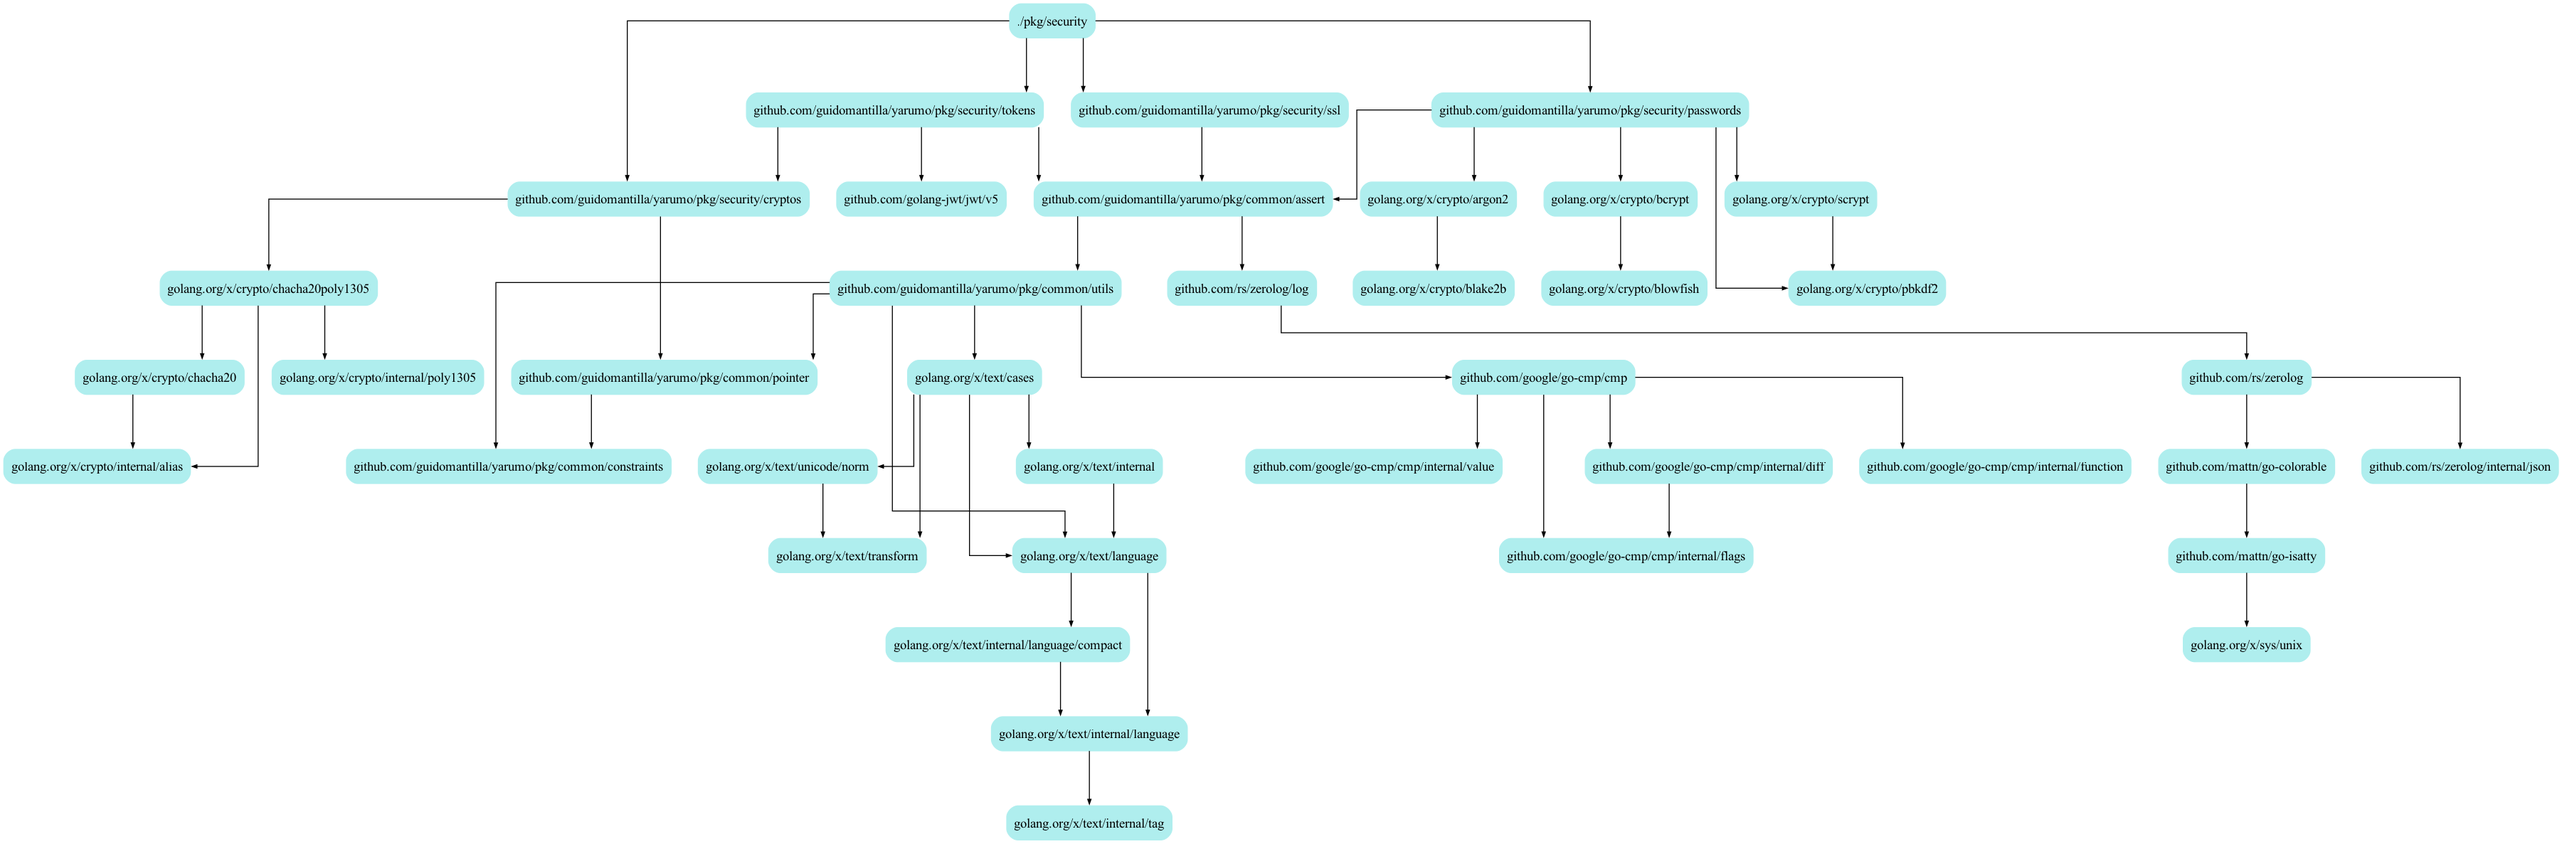
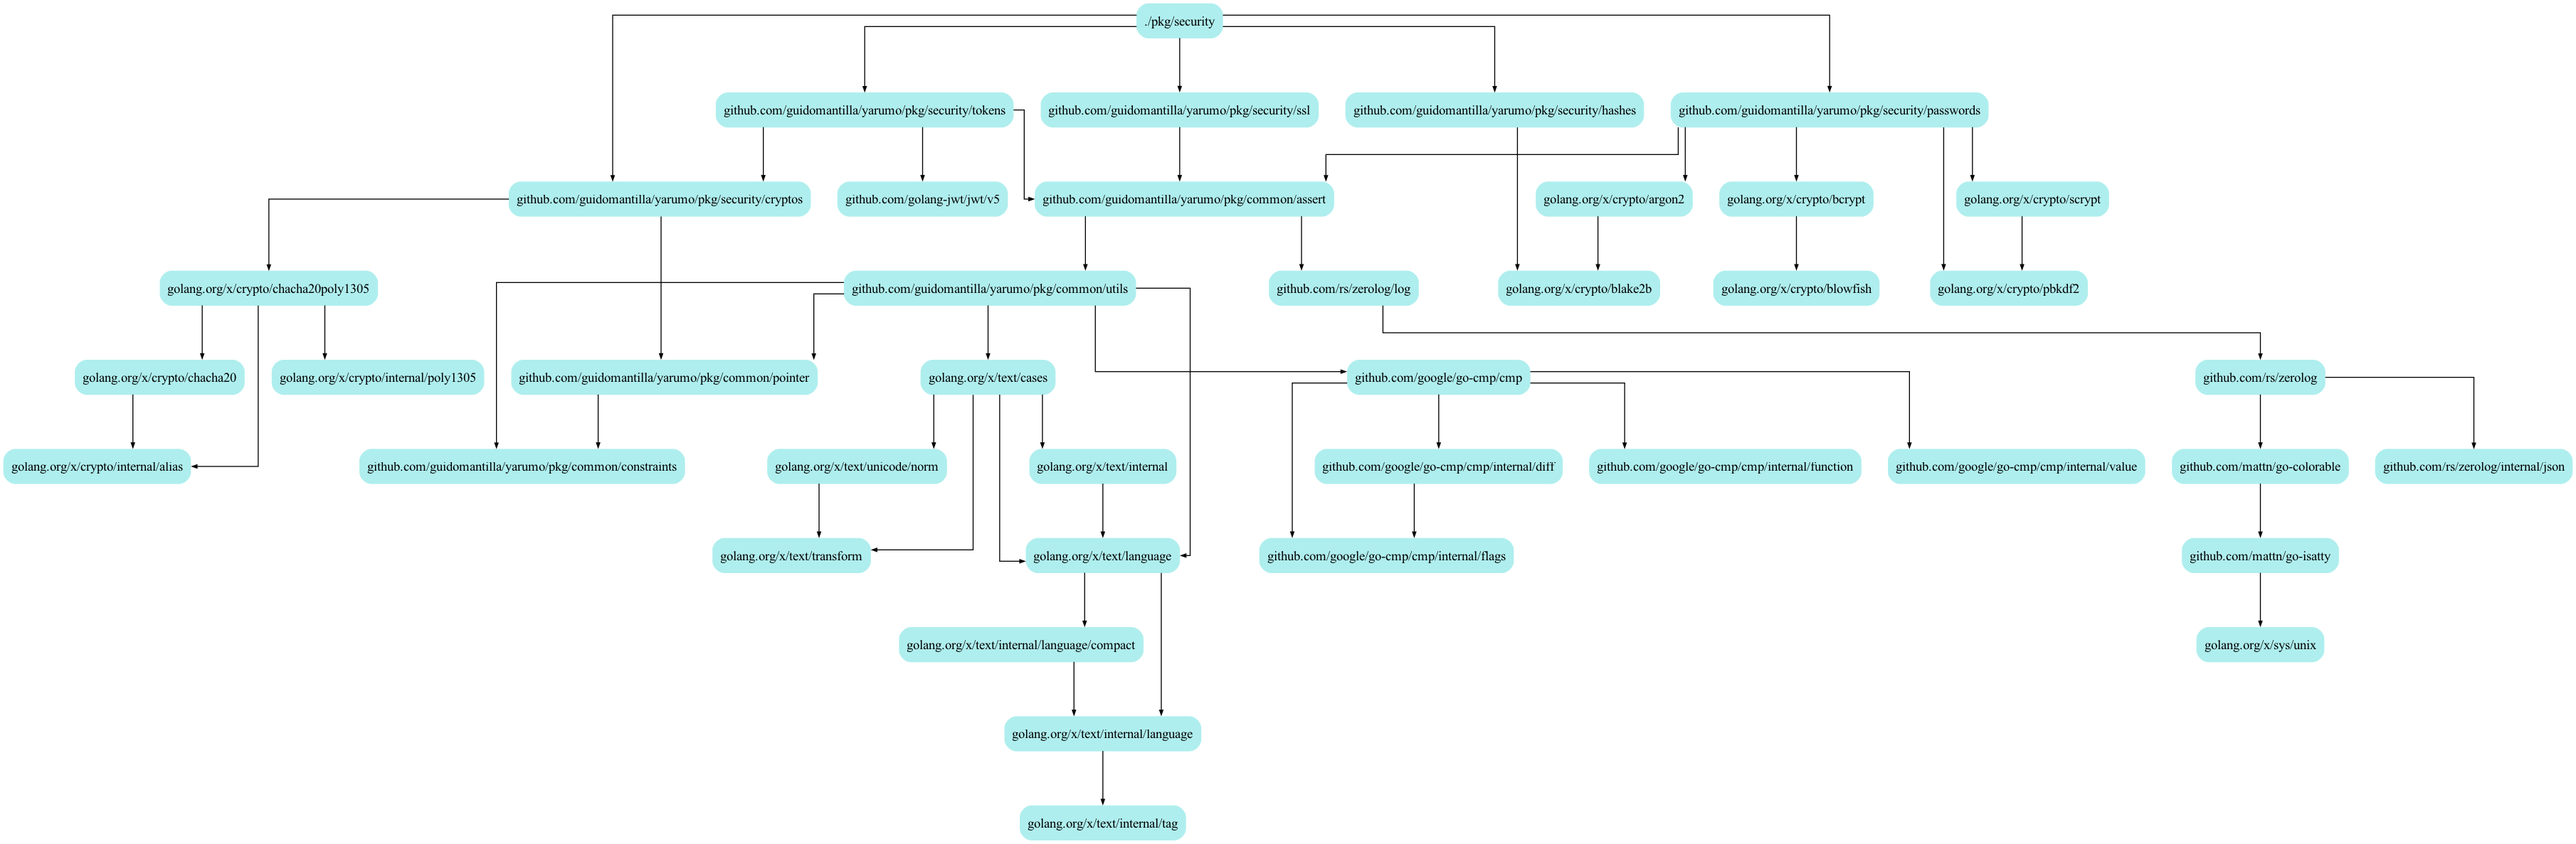
updates

diff --git a/pkg/boot/context.go b/pkg/boot/context.go
@@ -13,8 +13,10 @@ import (
 	"github.com/guidomantilla/yarumo/pkg/common/assert"
 	clog "github.com/guidomantilla/yarumo/pkg/common/log"
 	"github.com/guidomantilla/yarumo/pkg/common/pointer"
+	"github.com/guidomantilla/yarumo/pkg/common/uids"
 	"github.com/guidomantilla/yarumo/pkg/common/utils"
 	"github.com/guidomantilla/yarumo/pkg/security/cryptos"
+	"github.com/guidomantilla/yarumo/pkg/security/hashes"
 	"github.com/guidomantilla/yarumo/pkg/security/passwords"
 	"github.com/guidomantilla/yarumo/pkg/security/tokens"
 )
@@ -46,8 +48,10 @@ func NewWireContext[C any](name string, version string, opts ...Option) *WireCon
 	container := &Container{
 		AppName:           name,
 		AppVersion:        version,
-		Config:            pointer.Zero[C](),
+		Hasher:            hashes.BLAKE2b_512,
+		UIDGen:            uids.UUIDv7,
 		Logger:            clog.Configure(name, version),
+		Config:            pointer.Zero[C](),
 		Validator:         validator.New(),
 		PasswordEncoder:   passwords.NewBcryptEncoder(),
 		PasswordGenerator: passwords.NewGenerator(),
@@ -60,6 +64,12 @@ func NewWireContext[C any](name string, version string, opts ...Option) *WireCon
 
 	log.Info().Str("stage", "startup").Str("component", "context").Msg("starting")
 	defer log.Info().Str("stage", "startup").Str("component", "context").Msg("started")
+
+	options.Hasher(container)
+	log.Info().Str("stage", "startup").Str("component", "context").Msg("hasher set up")
+
+	options.UIDGen(container)
+	log.Info().Str("stage", "startup").Str("component", "context").Msg("uid generator set up")
 
 	options.Logger(container)
 	log.Info().Str("stage", "startup").Str("component", "context").Msg("logger set up")

diff --git a/pkg/boot/container.go b/pkg/boot/container.go
@@ -9,8 +9,10 @@ import (
 	"github.com/spf13/viper"
 
 	clog "github.com/guidomantilla/yarumo/pkg/common/log"
+	"github.com/guidomantilla/yarumo/pkg/common/uids"
 	"github.com/guidomantilla/yarumo/pkg/common/utils"
 	"github.com/guidomantilla/yarumo/pkg/security/cryptos"
+	"github.com/guidomantilla/yarumo/pkg/security/hashes"
 	"github.com/guidomantilla/yarumo/pkg/security/passwords"
 	"github.com/guidomantilla/yarumo/pkg/security/tokens"
 )
@@ -20,11 +22,23 @@ type Container struct {
 	AppVersion        string
 	Config            any
 	Logger            zerolog.Logger
+	Hasher            hashes.HashFn
+	UIDGen            uids.UIDFn
 	Validator         *validator.Validate
 	PasswordEncoder   passwords.Encoder
 	PasswordGenerator passwords.Generator
 	TokenGenerator    tokens.Generator
 	Cipher            cryptos.Cipher
+}
+
+func Hasher(container *Container) {
+	log.Warn().Str("stage", "startup").Str("component", "hasher").Msg("hasher function not implemented. using BLAKE2b-512 hasher")
+	container.Hasher = hashes.BLAKE2b_512
+}
+
+func UIDGen(container *Container) {
+	log.Warn().Str("stage", "startup").Str("component", "uid generator").Msg("uid generator function not implemented. using UUIDv7 uid generator")
+	container.UIDGen = uids.UUIDv7
 }
 
 func Logger(container *Container) {

diff --git a/pkg/boot/options.go b/pkg/boot/options.go
@@ -1,6 +1,8 @@
 package boot
 
 type Options struct {
+	Hasher            BeanFn
+	UIDGen            BeanFn
 	Logger            BeanFn
 	Config            BeanFn
 	Validator         BeanFn
@@ -12,6 +14,8 @@ type Options struct {
 
 func NewOptions(opts ...Option) *Options {
 	options := &Options{
+		Hasher:            Hasher,
+		UIDGen:            UIDGen,
 		Logger:            Logger,
 		Config:            Config,
 		Validator:         Validator,
@@ -29,6 +33,24 @@ func NewOptions(opts ...Option) *Options {
 }
 
 type Option func(opts *Options)
+
+// WithHasher allows setting a custom hasher function into the WireContext (wctx *boot.WireContext).
+//
+// wctx.Hasher = <hasher object>
+func WithHasher(hasherFn BeanFn) Option {
+	return func(opts *Options) {
+		opts.Hasher = hasherFn
+	}
+}
+
+// WithUIDGen allows setting a custom UID generator function into the WireContext (wctx *boot.WireContext).
+//
+// wctx.UIDGen = <uid generator object>
+func WithUIDGen(uidGenFn BeanFn) Option {
+	return func(opts *Options) {
+		opts.UIDGen = uidGenFn
+	}
+}
 
 // WithLogger allows setting a custom logger function into the WireContext (wctx *boot.WireContext).
 //

diff --git a/pkg/security/hashes/functions.go b/pkg/security/hashes/functions.go
@@ -1,0 +1,37 @@
+package hashes
+
+import (
+	"crypto/sha256"
+	"crypto/sha3"
+	"crypto/sha512"
+
+	"golang.org/x/crypto/blake2b"
+)
+
+func SHA256(data []byte) []byte {
+	sum := sha256.Sum256(data)
+	return sum[:]
+}
+
+func SHA3_256(data []byte) []byte {
+	d := sha3.New256()
+	_, _ = d.Write(data)
+	return d.Sum(nil)
+}
+
+func SHA512(data []byte) []byte {
+	sum := sha512.Sum512(data)
+	return sum[:]
+}
+
+func SHA3_512(data []byte) []byte {
+	d := sha3.New512()
+	_, _ = d.Write(data)
+	return d.Sum(nil)
+}
+
+func BLAKE2b_512(data []byte) []byte {
+	d, _ := blake2b.New512(nil)
+	d.Write(data)
+	return d.Sum(nil)
+}

diff --git a/pkg/common/uids/functions.go b/pkg/common/uids/functions.go
@@ -1,0 +1,39 @@
+package uids
+
+import (
+	"github.com/akshayvadher/cuid2"
+	nanoid "github.com/devmiek/nanoid-go"
+	"github.com/google/uuid"
+	ulid "github.com/oklog/ulid/v2"
+	"github.com/rs/xid"
+)
+
+func UUIDv4() string {
+	id := uuid.New()
+	return id.String()
+}
+
+func NANOID() string {
+	id, _ := nanoid.New()
+	return id
+}
+
+func CUID2() string {
+	id := cuid2.CreateId()
+	return id
+}
+
+func UUIDv7() string {
+	id, _ := uuid.NewV7()
+	return id.String()
+}
+
+func ULID() string {
+	id := ulid.Make()
+	return id.String()
+}
+
+func XID() string {
+	id := xid.New()
+	return id.String()
+}

diff --git a/pkg/security/hashes/hashes.go b/pkg/security/hashes/hashes.go
@@ -1,0 +1,28 @@
+package hashes
+
+import "fmt"
+
+const (
+	Sha256      = "SHA256"
+	Sha3_256    = "SHA3_256"
+	Sha512      = "SHA512"
+	Sha3_512    = "SHA3_512"
+	Blake2b_512 = "BLAKE2b_512"
+)
+
+func GetByName(name string) (HashFn, error) {
+	switch name {
+	case Sha256:
+		return SHA256, nil
+	case Sha3_256:
+		return SHA3_256, nil
+	case Sha512:
+		return SHA512, nil
+	case Sha3_512:
+		return SHA3_512, nil
+	case Blake2b_512:
+		return BLAKE2b_512, nil
+	default:
+		return nil, fmt.Errorf("hash function %s not found", name)
+	}
+}

diff --git a/pkg/common/uids/uids.go b/pkg/common/uids/uids.go
@@ -1,0 +1,31 @@
+package uids
+
+import "fmt"
+
+const (
+	UuidV4 = "UUIDv4"
+	NanoID = "NANOID"
+	Cuid2  = "CUID2"
+	UuidV7 = "UUIDv7"
+	Ulid   = "ULID"
+	XId    = "XId"
+)
+
+func GetByName(name string) (UIDFn, error) {
+	switch name {
+	case UuidV4:
+		return UUIDv4, nil
+	case NanoID:
+		return NANOID, nil
+	case Cuid2:
+		return CUID2, nil
+	case UuidV7:
+		return UUIDv7, nil
+	case Ulid:
+		return ULID, nil
+	case XId:
+		return XID, nil
+	default:
+		return nil, fmt.Errorf("UID function %s not found", name)
+	}
+}

diff --git a/pkg/common/graph.go b/pkg/common/graph.go
@@ -6,6 +6,6 @@ import (
 	_ "github.com/guidomantilla/yarumo/pkg/common/constraints"
 	_ "github.com/guidomantilla/yarumo/pkg/common/log"
 	_ "github.com/guidomantilla/yarumo/pkg/common/pointer"
+	_ "github.com/guidomantilla/yarumo/pkg/common/uids"
 	_ "github.com/guidomantilla/yarumo/pkg/common/utils"
-	_ "github.com/guidomantilla/yarumo/pkg/common/uxid"
 )

diff --git a/pkg/security/graph.go b/pkg/security/graph.go
@@ -2,6 +2,7 @@ package common
 
 import (
 	_ "github.com/guidomantilla/yarumo/pkg/security/cryptos"
+	_ "github.com/guidomantilla/yarumo/pkg/security/hashes"
 	_ "github.com/guidomantilla/yarumo/pkg/security/passwords"
 	_ "github.com/guidomantilla/yarumo/pkg/security/ssl"
 	_ "github.com/guidomantilla/yarumo/pkg/security/tokens"

diff --git a/pkg/security/hashes/types.go b/pkg/security/hashes/types.go
@@ -1,0 +1,11 @@
+package hashes
+
+var (
+	_ HashFn = SHA256
+	_ HashFn = SHA3_256
+	_ HashFn = SHA512
+	_ HashFn = SHA3_512
+	_ HashFn = BLAKE2b_512
+)
+
+type HashFn func(data []byte) []byte

diff --git a/pkg/common/uids/types.go b/pkg/common/uids/types.go
@@ -1,0 +1,12 @@
+package uids
+
+var (
+	_ UIDFn = UUIDv4
+	_ UIDFn = NANOID
+	_ UIDFn = CUID2
+	_ UIDFn = UUIDv7
+	_ UIDFn = ULID
+	_ UIDFn = XID
+)
+
+type UIDFn func() string
